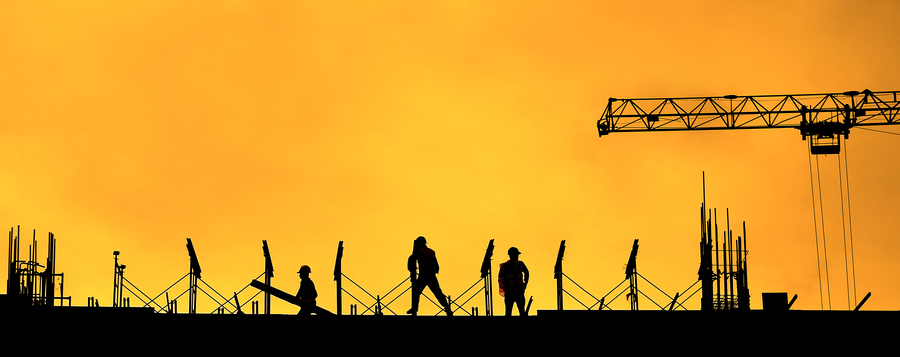
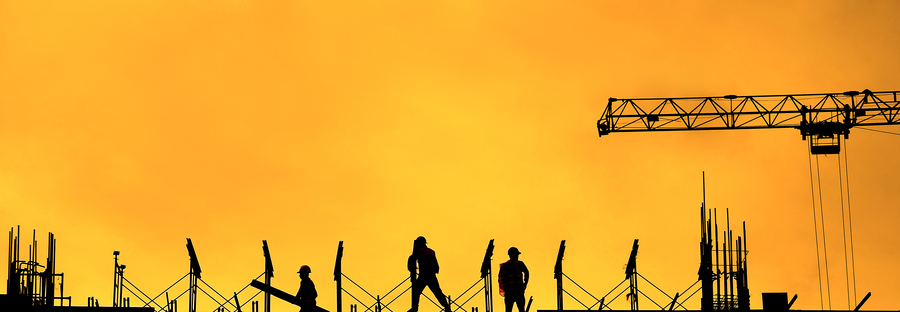
background

Changed region(s): [[0.0, 0.2308, 1.0, 1.0], [0.6222, 0.6635, 0.6533, 0.7212]]

diff --git a/app/assets/stylesheets/style.css b/app/assets/stylesheets/style.css
@@ -149,7 +149,7 @@ h2 {
     width:100%;
     height:100%;
     color:#FFF;
-    background:url('bg3.jpg') no-repeat center center fixed; 
+    background:url('bg.jpg') no-repeat center center fixed; 
     -webkit-background-size: cover;
     -moz-background-size: cover;
     -o-background-size: cover;
